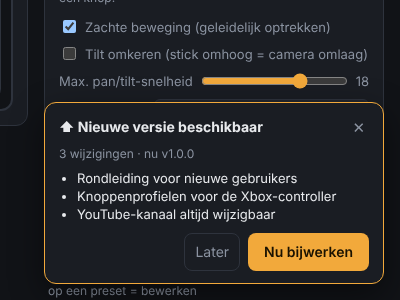
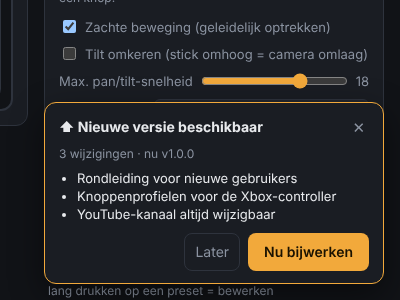
Liederenvenster: klein verplaatsbaar venster met het huidige en volgende nummer
- Knop 🎵 in de kop met het nummer dat nu in ProPresenter op het scherm staat
- Venster zoals de YouTube-viewer: Nu, Hierna en de playlist; slepen, schalen, plek per scherm onthouden
- ⇄ wisselt tussen ProPresenter en de Voordienst app, ⚙ opent de instellingen, sneltoets L
- Rondleiding (38 stappen), README, CLAUDE.md en screenshots bijgewerkt

Claude-Session: https://claude.ai/code/session_01UTh5KYCJgEpAXNVLiQf8c3

Changed region(s): [[0.12, 0.96, 0.69, 0.99]]

diff --git a/index.html b/index.html
@@ -440,6 +440,22 @@
   .ytgrip { position: absolute; right: 0; bottom: 0; width: 18px; height: 18px; cursor: nwse-resize; touch-action: none; z-index: 2;
     background: linear-gradient(135deg, transparent 50%, var(--muted) 50%, var(--muted) 58%, transparent 58%,
       transparent 70%, var(--muted) 70%, var(--muted) 78%, transparent 78%); opacity: .8; }
+  /* 🎵 Liederenvenster (net als het YouTube-venster: verplaatsbaar en schaalbaar) */
+  #btnSongBar { display: flex; gap: 6px; align-items: center; font-size: 13px; max-width: 260px; }
+  #btnSongBar .sbl { white-space: nowrap; overflow: hidden; text-overflow: ellipsis; min-width: 0; }
+  #btnSongBar.on { border-color: var(--ok); }
+  #songWin { position: fixed; z-index: 24; width: 300px; height: 320px; right: 16px; bottom: 16px; background: var(--panel);
+    border: 1px solid var(--line); border-radius: 10px; box-shadow: 0 12px 34px var(--shadow); overflow: hidden;
+    display: flex; flex-direction: column; min-width: 220px; min-height: 140px; }
+  #songWin[hidden] { display: none; }
+  #songWin .ytbadge { background: var(--muted); }
+  #songWin.on .ytbadge { background: var(--ok); color: #fff; }
+  .songnowbox { padding: 8px 12px; border-bottom: 1px solid var(--line); }
+  .songnowbox .snow { font-size: 17px; font-weight: 700; line-height: 1.25; }
+  .songnowbox .snext { font-size: 13px; color: var(--muted); margin-top: 3px; }
+  .songnowbox .snext b { color: var(--text); font-weight: 600; }
+  #songWinList { flex: 1; overflow: auto; margin: 0; border: 0; border-radius: 0; max-height: none; }
+  #songWinSrc { font-size: 11px; color: var(--muted); padding: 4px 12px 6px; border-top: 1px solid var(--line); }
   #dlgPrefs { width: min(560px, 95vw); }
   #dlgPrefs label.chk { display: flex; gap: 8px; align-items: center; font-size: 13px; margin-top: 8px; }
   #toast.good { background: var(--okbg); border-color: var(--ok); }
@@ -488,6 +504,7 @@
     <input type="checkbox" id="chkFollow" checked> Volg selectie
   </label>
   <button class="icon" id="btnLock" hidden title="Pincode / alleen kijken">🔒</button>
+  <button class="icon" id="btnSongBar" hidden title="Liederenvenster tonen/verbergen (L)"><span>🎵</span><span class="sbl" id="songBarLbl">Liederen</span></button>
   <div class="menuwrap" id="ytWrap">
     <button class="icon" id="btnYt" aria-haspopup="true" aria-expanded="false"><span class="ytdot"></span><span id="ytLbl">YouTube</span> <span class="caret">▾</span></button>
     <div class="menu" id="ytMenu" hidden role="menu"></div>
@@ -801,6 +818,21 @@
     <span style="display:flex;gap:8px"><button class="icon" id="prefsCancel">Sluiten</button>
     <button class="primary" id="prefsSave">Opslaan</button></span></div>
 </dialog>
+
+<!-- 🎵 Liederen: klein venster (verplaatsbaar, schaalbaar) -->
+<div id="songWin" hidden>
+  <div class="ythead" id="songHead">
+    <span class="ytbadge" id="songBadge">LIEDEREN</span>
+    <span class="yttitle" id="songTitle">Liederen</span>
+    <button id="songSrcBtn" title="Wisselen tussen ProPresenter en de Voordienst app" hidden>⇄</button>
+    <button id="songSet" title="Instellingen (Menu → 🎵 Liederen)">⚙</button>
+    <button id="songClose" title="Venster sluiten (L)">✕</button>
+  </div>
+  <div class="songnowbox"><div class="snow" id="songNow"></div><div class="snext" id="songNext"></div></div>
+  <ol class="songlist" id="songWinList"></ol>
+  <div id="songWinSrc"></div>
+  <div class="ytgrip" id="songGrip" title="Sleep om de grootte te wijzigen"></div>
+</div>
 
 <!-- YouTube: klein venster (verplaatsbaar, schaalbaar) -->
 <div id="ytWin" hidden>
@@ -1332,6 +1364,7 @@ const KEY_ACTIONS = {
   focus_far: ["Focus ver", "KeyW", "Zoom en focus", true], focus_near: ["Focus dichtbij", "KeyS", "Zoom en focus", true],
   stop: ["Stop", "Space", "Overig"], home: ["Home", "KeyH", "Overig"], track: ["Volgen (pan) aan/uit", "KeyT", "Overig"],
   wall: ["Volledig scherm", "KeyF", "Overig"], youtube: ["YouTube-venster tonen/verbergen", "KeyY", "Overig"],
+  songs: ["Liederenvenster tonen/verbergen", "KeyL", "Overig"],
   ...Object.fromEntries([1, 2, 3, 4, 5, 6, 7, 8, 9].map(n => ["preset_" + n, ["Preset " + n, "Digit" + n, "Presets op de gekozen camera"]])),
 };
 const keyOf = (a) => { const v = (cfg.keymap || {})[a]; return v === "none" ? "" : (v || KEY_ACTIONS[a][1]); };
@@ -1423,6 +1456,7 @@ document.addEventListener("keydown", (e) => {
   else if (a === "track") { if (ctrlCam) toggleTrack(ctrlCam); }
   else if (a === "wall") setWall(!document.body.classList.contains("wall"));
   else if (a === "youtube") ytToggle();
+  else if (a === "songs") songWinToggle();
   else if (a === "stop") { cmd("stop"); cmd("zoom", { dir: "stop" }); }
   else if (a.startsWith("preset_")) { if (ctrlCam) presetClick(ctrlCam, +a.slice(7)); }
 });
@@ -1526,7 +1560,7 @@ function renderKeyHints() {
   const presets = p1 === "Digit1" && p9 === "Digit9" ? "<kbd>1</kbd>–<kbd>9</kbd>" : `${k("preset_1")}…${k("preset_9")}`;
   $("#keyHints").innerHTML = `${presets} preset · ${cfg.cameras.slice(0, 3).map((c, i) => `<kbd>${esc(keyLabel(camHotkey(c, i)))}</kbd>`).join(" ")} camera ·
     ${k("left")}${k("up")}${k("right")}${k("down")} bewegen · ${k("zoom_in")}/${k("zoom_out")} zoom · ${k("focus_far")}/${k("focus_near")} focus ·
-    ${k("home")} home · ${k("track")} volgen · ${k("wall")} volledig scherm · ${k("youtube")} YouTube · ${k("stop")} stop ·
+    ${k("home")} home · ${k("track")} volgen · ${k("wall")} volledig scherm · ${k("youtube")} YouTube · ${k("songs")} liederen · ${k("stop")} stop ·
     <a href="#" id="keyHintsEdit">aanpassen</a> · rechtsklik of lang drukken op een preset = bewerken`;
   $("#keyHintsEdit").onclick = (e) => { e.preventDefault(); $("#btnKeys").click(); };
   const wk = $("#btnWall kbd"); if (wk) wk.textContent = keyLabel(keyOf("wall"));
@@ -3028,7 +3062,7 @@ fetch("/api/update").then(r => r.ok ? r.json() : null).then(st => st && updUpdat
    Server (liederen.py) leest de API van ProPresenter en de Voordienst app (optioneel met bearer token) en zet elk nummer in het activiteitenlog.
    Instellingen in cfg.liederen (per workspace), alleen te wijzigen via /api/liederen/config. */
 let songs = null, songsCfg = null;
-function songsUpdate(ev) { songs = ev; if ($("#dlgSongs").open) songsRender(); }
+function songsUpdate(ev) { songs = ev; if ($("#dlgSongs").open) songsRender(); songWinRender(); }
 async function songsLoad() {
   const j = await (await fetch("/api/liederen")).json();
   songsCfg = j.config; delete j.config; songs = j;
@@ -3089,6 +3123,110 @@ $("#songsLog").onclick = async () => {
   $("#dlgSongs").close(); await $("#btnLog").onclick(); $("#logKind").value = "lied"; logRender();
 };
 
+/* ---- 🎵 Liederenvenster: net als het YouTube-venster (klein, verplaatsbaar, schaalbaar), per apparaat ----
+   Toont wat nu op het scherm staat en wat hierna komt, met de playlist uit ProPresenter of de lijst uit de Voordienst app.
+   localStorage: songOpen ("1"), songGeom {x, y, w, h}, songSrc ("pp" | "vd"). Knop #btnSongBar in de kop, toets L. */
+const songWin = $("#songWin");
+function songLists() {
+  const ps = songs?.pp || {}, ds = songs?.voordienst || {};
+  const out = {};
+  if (ps.enabled && ps.connected) {
+    let n = 0;
+    out.pp = { label: "ProPresenter" + (ps.playlist?.name ? " · " + ps.playlist.name : ""),
+      items: (ps.items || []).map(i => i.header ? { name: i.name, header: true } : { name: i.name, n: ++n }),
+      cur: ps.pos, now: ps.current?.name || "" };
+  }
+  if (ds.enabled && ds.ok) out.vd = { label: "Voordienst app" + (ds.title ? " · " + ds.title : ""),
+    items: ds.items.map((t, i) => ({ name: t, n: i + 1 })), cur: ds.playing ?? ds.current, now: "" };
+  return out;
+}
+function songWinRender() {
+  const L = songLists(), any = !!(songs?.pp?.enabled || songs?.voordienst?.enabled);
+  const ppNow = L.pp?.now || "";
+  const btn = $("#btnSongBar");
+  btn.hidden = !any;
+  btn.classList.toggle("on", !!ppNow);
+  $("#songBarLbl").textContent = ppNow || "Liederen";
+  if (!any && !songWin.hidden) songWin.hidden = true;
+  if (songWin.hidden) return;
+  const keys = Object.keys(L);
+  let src = store.get("songSrc");
+  if (!keys.includes(src)) src = keys[0];
+  $("#songSrcBtn").hidden = keys.length < 2;
+  const cur = src ? L[src] : null;
+  const songsOnly = cur ? cur.items.filter(i => !i.header) : [];
+  const i = cur?.cur;
+  const nowName = ppNow || (i != null && songsOnly[i] ? songsOnly[i].name : "");
+  const next = i != null ? songsOnly[i + 1] : null;
+  songWin.classList.toggle("on", !!nowName);
+  $("#songBadge").textContent = nowName ? "NU" : "LIEDEREN";
+  $("#songTitle").textContent = cur ? cur.label : "Liederen";
+  $("#songNow").innerHTML = nowName ? esc(nowName) : `<span class="muted" style="font-weight:400;font-size:14px">${keys.length ? "Niets op het scherm" : "Nog geen verbinding met ProPresenter of de Voordienst app"}</span>`;
+  $("#songNext").innerHTML = next ? `Hierna: <b>${esc(next.name)}</b>` : "";
+  $("#songWinList").innerHTML = cur ? cur.items.map(it => it.header ? `<li class="hdr">${esc(it.name)}</li>`
+    : `<li class="${it.n - 1 === i ? "now" : ""}"><span class="sn">${it.n}</span>${esc(it.name)}</li>`).join("") : "";
+  $("#songWinSrc").textContent = keys.length ? (cur.label.startsWith("ProPresenter") && songs.pp?.checked ? "bijgewerkt " + songs.pp.checked
+    : songs.voordienst?.checked ? "bijgewerkt " + songs.voordienst.checked : "") : "Instellen via ⚙";
+  const nowEl = $("#songWinList li.now");
+  if (nowEl && nowEl.dataset.k !== String(i)) { nowEl.dataset.k = String(i); nowEl.scrollIntoView({ block: "center" }); }
+}
+function songGeom() { try { return JSON.parse(store.get("songGeom") || "{}"); } catch { return {}; } }
+function songPlace() {
+  const g = songGeom();
+  if (g.w) songWin.style.width = Math.min(g.w, innerWidth - 8) + "px";
+  if (g.h) songWin.style.height = Math.min(g.h, innerHeight - 8) + "px";
+  if (g.x == null) { songWin.style.left = songWin.style.top = ""; songWin.style.right = "16px"; songWin.style.bottom = "16px"; return; }
+  const r = songWin.getBoundingClientRect();
+  songWin.style.right = songWin.style.bottom = "";
+  songWin.style.left = Math.max(0, Math.min(g.x, innerWidth - r.width)) + "px";
+  songWin.style.top = Math.max(0, Math.min(g.y, innerHeight - r.height)) + "px";
+}
+function songWinShow(on) {
+  songWin.hidden = !on;
+  try { on ? store.set("songOpen", "1") : store.set("songOpen", "0"); } catch { /* geen opslag */ }
+  if (on) { songPlace(); songWinRender(); const n = $("#songWinList li.now"); if (n) n.scrollIntoView({ block: "center" }); }
+}
+function songWinToggle() {
+  if (!(songs?.pp?.enabled || songs?.voordienst?.enabled)) { $("#btnSongs").click(); return; }   // nog niets ingesteld
+  songWinShow(songWin.hidden);
+}
+function songDrag(el, onMove) {
+  el.addEventListener("pointerdown", (e) => {
+    if (e.button !== 0 || e.target.closest("button")) return;
+    e.preventDefault();
+    const r = songWin.getBoundingClientRect(), sx = e.clientX, sy = e.clientY;
+    el.setPointerCapture(e.pointerId);
+    songWin.style.right = songWin.style.bottom = ""; songWin.style.left = r.left + "px"; songWin.style.top = r.top + "px";
+    const move = (m) => onMove(r, m.clientX - sx, m.clientY - sy);
+    const up = () => {
+      el.removeEventListener("pointermove", move);
+      const b = songWin.getBoundingClientRect();
+      store.set("songGeom", JSON.stringify({ x: Math.round(b.left), y: Math.round(b.top), w: Math.round(b.width), h: Math.round(b.height) }));
+    };
+    el.addEventListener("pointermove", move);
+    el.addEventListener("pointerup", up, { once: true });
+    el.addEventListener("pointercancel", up, { once: true });
+  });
+}
+songDrag($("#songHead"), (r, dx, dy) => {
+  songWin.style.left = Math.max(0, Math.min(r.left + dx, innerWidth - r.width)) + "px";
+  songWin.style.top = Math.max(0, Math.min(r.top + dy, innerHeight - r.height)) + "px";
+});
+songDrag($("#songGrip"), (r, dx, dy) => {
+  songWin.style.width = Math.max(220, Math.min(r.width + dx, innerWidth - r.left)) + "px";
+  songWin.style.height = Math.max(140, Math.min(r.height + dy, innerHeight - r.top)) + "px";
+});
+addEventListener("resize", () => { if (!songWin.hidden) songPlace(); });
+$("#btnSongBar").onclick = () => songWinToggle();
+$("#songClose").onclick = () => songWinShow(false);
+$("#songSet").onclick = () => $("#btnSongs").click();
+$("#songSrcBtn").onclick = () => {
+  const keys = Object.keys(songLists()), cur = keys.includes(store.get("songSrc")) ? store.get("songSrc") : keys[0];
+  store.set("songSrc", keys[(keys.indexOf(cur) + 1) % keys.length]); songWinRender();
+};
+fetch("/api/liederen").then(r => r.json()).then(j => { delete j.config; if (!songs) songs = j; songWinRender();
+  if (store.get("songOpen") === "1" && (songs.pp?.enabled || songs.voordienst?.enabled)) songWinShow(true); }).catch(() => {});
+
 /* ---- 🎓 Rondleiding ----
    🧑 Elke functie hoort hier een stap te hebben. Voeg je iets toe of haal je iets weg: werk TOUR_STEPS bij (zie CLAUDE.md §2a). */
 const TOUR_STEPS = [
@@ -3129,6 +3267,7 @@ const TOUR_STEPS = [
   { target: ["#ytWrap"], title: "📺 YouTube-livestream", text: () => `<p>De app kijkt elke minuut of het ingestelde kanaal live is. De knop wordt dan rood (<b>LIVE</b>) en de stream verschijnt in een klein venster.</p>
       <p>In dit menu: venster tonen/verbergen (<kbd>Y</kbd>), grootte, automatisch plaatsen, geluid, automatisch openen, nu controleren en het <b>kanaal instellen</b> (kan altijd, ook tijdens een stream).</p>
       <p>Het venster kun je slepen aan de titelbalk en groter maken met de hoek rechtsonder. Starten en stoppen van de stream gebeurt buiten deze app.</p>` },
+  { target: ["#btnSongBar", "#btnPad"], title: "🎵 Liederenvenster", text: () => `<p>Is ProPresenter of de Voordienst app gekoppeld, dan staat hier het nummer dat <b>nu op het scherm</b> staat. Klik erop (of toets <kbd>${esc(keyLabel(keyOf("songs")))}</kbd>) voor een klein venster met <b>Nu</b>, <b>Hierna</b> en de hele playlist.</p><p>Net als het YouTube-venster kun je het verslepen aan de titelbalk en groter maken met het hoekje rechtsonder; elk scherm onthoudt zijn eigen plek. Met ⇄ wissel je tussen ProPresenter en de Voordienst app. Koppelen doe je via <b>Menu → 🎵 Liederen</b>.</p>` },
   { target: ["#wsWrap"], title: "📍 Workspaces", text: () => `<p>Een workspace is een aparte set camera's, presets, foto's, sneltoetsen, knoppenprofielen en YouTube-kanaal, bijvoorbeeld per locatie.</p>
       <p>Hier wissel je van workspace (geldt voor alle schermen), maak je een nieuwe (leeg of als kopie) en beheer je ze.</p>` },
   { target: ["#btnPad"], title: "Menu", text: () => `<p>Achter deze knop zitten de overige functies. We lopen ze kort langs.</p>` },

diff --git a/docs/tools/screenshots.py b/docs/tools/screenshots.py
@@ -50,6 +50,7 @@ with sync_playwright() as p:
     pg.screenshot(path=f"{OUT}/ongedaan-maken.png", clip={"x": 420, "y": 760, "width": 600, "height": 140}); pg.evaluate("$('#undoNote').hidden = true")
     pg.click("#btnPad"); pg.click("#btnMidi"); pg.wait_for_timeout(1500); pg.screenshot(path=f"{OUT}/videomixer.png"); pg.click("#midiClose")
     urllib.request.urlopen("http://127.0.0.1:50001/test/trigger?i=4").read(); pg.wait_for_timeout(2500)
+    pg.keyboard.press("l"); pg.wait_for_timeout(600); pg.screenshot(path=f"{OUT}/liederenvenster.png"); pg.keyboard.press("l"); pg.wait_for_timeout(200)
     pg.click("#btnPad"); pg.click("#btnSongs"); pg.wait_for_timeout(800); pg.screenshot(path=f"{OUT}/liederen.png")
     pg.locator("#dlgSongs").evaluate("d => d.scrollTop = 99999"); pg.wait_for_timeout(200); pg.screenshot(path=f"{OUT}/voordienst-app.png"); pg.click("#songsClose")
     pg.click("#btnPad"); pg.click("#btnAccess"); pg.wait_for_timeout(400); pg.screenshot(path=f"{OUT}/toegang.png"); pg.click("#acClose")

diff --git a/CLAUDE.md b/CLAUDE.md
@@ -57,7 +57,7 @@ Legenda: ✅ geverifieerd (getest of in officiële docs gevonden) · ⚠ aann
 - 🧑 **Menu onder die knop** (`#mainMenu`): Sneltoetsen, Volledig scherm, Back-up, Camera's, 🎛 Videomixer (MIDI) (`btnMidi`), 🎵 Liederen (`btnSongs`), Presetaantal testen, 🚧 Oefenstand (`btnPractice`, bewust niet 🎯: dat is volgen), 📋 Activiteitenlog (`btnLog`), 🔒 Toegang (`btnAccess`), 📱 Tabletweergave (`btnTablet`), Licht/donker, 🎓 Rondleiding, 🔄 Op updates controleren, Afsluiten. De knoppen houden hun oude id's (`btnKeys`, `btnWall`, `btnBackup`, `btnSettings`, `btnCap`); klik buiten of Esc sluit het menu. 🧑 Het item *Controller-instellingen* (`btnPadSet`, sprong naar de Xbox-kaart) is op verzoek weggehaald; de instellingen staan in de zijbalk.
 - 🧑 **Volledig scherm** (`body.wall`) is alleen om te bedienen: **📥 Laden van camera** en **＋ Preset opslaan** zijn daar verborgen, en een actieve opslaan-modus wordt bij het openen uitgezet (zodat een tik geen preset overschrijft).
 - 🧑 **Knoppenindeling heeft één ingang**: de knop `btnMap2` in de Xbox-kaart in de zijbalk. Een tweede menu-item (`btnMap`) gaf dubbele knoppen en is op verzoek weggehaald; niet opnieuw toevoegen.
-- 🧑 **Alle sneltoetsen instelbaar** in **⌨ Sneltoetsen** (`#dlgKeys`, menu-item `btnKeys`), gedeeld via `cameras.json`: camera kiezen per camera (`cfg.cameras[i].hotkey`, standaard `Shift+Digit<n>`, n ≤ 9) en de bediening via **`cfg.keymap = {actie: combinatie}`** (alleen afwijkingen; `"none"` = uit). Acties en standaard in `KEY_ACTIONS`: `up/down/left/right` (pijltjes), `zoom_in/zoom_out` (Q/A), `focus_far/focus_near` (W/S), `stop` (Spatie), `home` (H), `track` (T), `wall` (F), `youtube` (Y), `preset_1..9` (1–9). Combinatie = `KeyboardEvent.code` met `Ctrl+`/`Alt+`/`Shift+` (`comboOf`). Backspace = standaard, Delete = uit; dubbele toetsen worden rood gemarkeerd maar niet geblokkeerd. **Esc is vast**; Cmd-combinaties (`metaKey`) gaan altijd naar de browser. Vasthouden (bewegen/zoom/focus) loopt via `holding` (code → actie), zodat loslaten ook werkt als Shift al los is; Num 2/4/6/8 zonder NumLock tellen als pijltje (`combosOf`). De uitleg onder de zijbalk (`#keyHints`), het menu (Volledig scherm) en het YouTube-menu tonen de ingestelde toetsen (`renderKeyHints`). In *Alle camera's* kiest de camera-toets alleen de bediende camera (`selectCam`, origin `key`); in de enkele weergave wisselt hij van tabblad. ✅ Getest met Playwright (toets wijzigen, uitzetten, dubbel, opslaan, bediening met nieuwe toetsen).
+- 🧑 **Alle sneltoetsen instelbaar** in **⌨ Sneltoetsen** (`#dlgKeys`, menu-item `btnKeys`), gedeeld via `cameras.json`: camera kiezen per camera (`cfg.cameras[i].hotkey`, standaard `Shift+Digit<n>`, n ≤ 9) en de bediening via **`cfg.keymap = {actie: combinatie}`** (alleen afwijkingen; `"none"` = uit). Acties en standaard in `KEY_ACTIONS`: `up/down/left/right` (pijltjes), `zoom_in/zoom_out` (Q/A), `focus_far/focus_near` (W/S), `stop` (Spatie), `home` (H), `track` (T), `wall` (F), `youtube` (Y), `songs` (L), `preset_1..9` (1–9). Combinatie = `KeyboardEvent.code` met `Ctrl+`/`Alt+`/`Shift+` (`comboOf`). Backspace = standaard, Delete = uit; dubbele toetsen worden rood gemarkeerd maar niet geblokkeerd. **Esc is vast**; Cmd-combinaties (`metaKey`) gaan altijd naar de browser. Vasthouden (bewegen/zoom/focus) loopt via `holding` (code → actie), zodat loslaten ook werkt als Shift al los is; Num 2/4/6/8 zonder NumLock tellen als pijltje (`combosOf`). De uitleg onder de zijbalk (`#keyHints`), het menu (Volledig scherm) en het YouTube-menu tonen de ingestelde toetsen (`renderKeyHints`). In *Alle camera's* kiest de camera-toets alleen de bediende camera (`selectCam`, origin `key`); in de enkele weergave wisselt hij van tabblad. ✅ Getest met Playwright (toets wijzigen, uitzetten, dubbel, opslaan, bediening met nieuwe toetsen).
 - 🧑 **Camerabediening inklapbaar** (klik op de titel; `localStorage.ctrlFolded`).
 - 🧑 **⛶ Volledig scherm** / toets F: `body.wall` verbergt kop en zijbalk, zet weergave op Alle camera's en vraagt browser-fullscreen. Esc / fullscreen verlaten → terug naar vorige weergave.
 - 🧑 **Geen scènes** (meerdere camera's tegelijk naar een preset). Op verzoek verwijderd: camera's mogen niet tegelijk bewegen, omdat de regie eerst via de videomixer naar een ander shot schakelt en dan pas de camera die niet live is verplaatst. Niet opnieuw toevoegen zonder expliciete vraag. Een oude `scenes`-sectie in `cameras.json` wordt bij opslaan weggegooid, oude `scene*`-knoppen in `pad_map` worden genegeerd.
@@ -113,7 +113,7 @@ Legenda: ✅ geverifieerd (getest of in officiële docs gevonden) · ⚠ aann
 
 ## 2b. Rondleiding en screenshots — ALTIJD bijwerken
 
-- 🧑 **Rondleiding in de app** (`TOUR_STEPS` in `index.html`, overlay `#tour`, nu 37 stappen incl. workspaces, knoppenprofielen, videomixer, liederen, zoeken/volgorde, camerastatus, foutbalk, oefenstand, activiteitenlog, toegang, tabletweergave en updates): start vanzelf bij de eerste keer per apparaat (`localStorage.tourDone`), daarna alleen via **Menu → 🎓 Rondleiding** (`#btnTour`). `?notour` in de URL slaat de automatische start over (voor screenshots/tests). Tijdens de rondleiding telt `anyDialog()` als waar, dus toetsen en de Xbox-controller bedienen geen camera's; klikken worden tegengehouden. Stap = `{target: [selectors…], menu: "main"?, parent?, title, text()}`; eerste zichtbare selector wordt uitgelicht, anders staat de kaart in het midden. ✅ Getest (Playwright, 1440×900, 900×1000, 390×800): alle stappen, geen `/api/cmd` tijdens de tour, Esc/menu/herladen.
+- 🧑 **Rondleiding in de app** (`TOUR_STEPS` in `index.html`, overlay `#tour`, nu 38 stappen incl. workspaces, knoppenprofielen, videomixer, liederen, liederenvenster, zoeken/volgorde, camerastatus, foutbalk, oefenstand, activiteitenlog, toegang, tabletweergave en updates): start vanzelf bij de eerste keer per apparaat (`localStorage.tourDone`), daarna alleen via **Menu → 🎓 Rondleiding** (`#btnTour`). `?notour` in de URL slaat de automatische start over (voor screenshots/tests). Tijdens de rondleiding telt `anyDialog()` als waar, dus toetsen en de Xbox-controller bedienen geen camera's; klikken worden tegengehouden. Stap = `{target: [selectors…], menu: "main"?, parent?, title, text()}`; eerste zichtbare selector wordt uitgelicht, anders staat de kaart in het midden. ✅ Getest (Playwright, 1440×900, 900×1000, 390×800): alle stappen, geen `/api/cmd` tijdens de tour, Esc/menu/herladen.
 - 🧑 **Regel voor elke wijziging:** voeg je een functie toe, verander je hoe iets werkt of haal je iets weg, werk dan **in dezelfde commit** bij:
   1. de **rondleiding** (`TOUR_STEPS`): elke functie moet er een stap voor hebben, verwijderde functies eruit;
   2. de **screenshots** in `docs/screenshots/` (opnieuw maken met `docs/tools/`, zie `docs/tools/README.md`; nieuwe dialogen/schermen ook toevoegen aan `docs/tools/screenshots.py`);
@@ -268,7 +268,8 @@ Legenda: ✅ geverifieerd (getest of in officiële docs gevonden) · ⚠ aann
 - 🧑 **Voordienst app met bearer token** (op verzoek; een eerst gebouwde OAuth 2.0-flow met PKCE is op verzoek weer vervangen door een vast token, niet terugzetten zonder vraag): `read_source(url, token)` stuurt `Authorization: Bearer <token>`; met token alleen http(s). `cfg.liederen.voordienst.token` (een geplakte `Bearer `-prefix wordt weggehaald). **Token is een geheim**: `GET /api/liederen` en `GET /api/config` geven alleen `token_set` (`public_cfg`), `POST /api/liederen/config` zet hem alleen bij een nieuwe waarde (`token`) of `token_clear: true`; een back-up zonder wachtwoorden laat hem weg en terugzetten houdt dan het huidige token. 401 → *HTTP 401 (token ontbreekt, is ongeldig of verlopen)*. ⚠ De echte API van de Voordienst app (adres, formaat) is **niet bekend**; alleen getest met `docs/tools/nep_voordienst.py`.
 - **Formaat** (`parse_voordienst`): JSON-lijst of object met `liederen|nummers|songs|items|playlist|lijst`, titel `titel|title|naam|name|dienst|datum`, optioneel `huidig|current|actief|active|nu|now` (index vanaf 1 of naam); items tekst of object (`titel|title|naam|name|lied|song|nummer|tekst`); met `type`/`soort` alleen lied/song/zang/nummer/aanbidding als die voorkomen. Tekst: één per regel, `#`-regels en nummering/opsommingstekens weg. Max. 100 items. Zonder token mag de bron ook een lokaal bestand zijn, ⚠ **alleen `.json`/`.txt`** (de server leest het; iedereen met bedienrecht kan het pad zetten). Koppeling ProPresenter ↔ Voordienst app: `match()` = gelijk na normaliseren (kleine letters, alleen letters/cijfers), of de een bevat de ander **op woordgrenzen** (min. 4 tekens; "psalm 1" ≠ "psalm 134"). Log: *Liederen geladen: <titel> (n liederen): …* bij nieuwe/andere lijst, *▶ … (k van n in de Voordienst app)* als `huidig` verandert.
 - Config `cfg.liederen = {pp: {enabled, host, port}, voordienst: {enabled, url, token}}` (per workspace, in back-ups), `norm_cfg` (host mag `http://ip:poort/` zijn). **Alleen via `POST /api/liederen/config`** (per sectie samengevoegd); `POST /api/config` behoudt altijd de bestaande `liederen`. API: `GET /api/liederen` (status + `config` zonder token), `POST /api/liederen/check` (meteen opnieuw, synchroon; niet gelogd). SSE `liederen` = `{pp: {enabled, connected, error, version, current, playlist, items, pos, checked}, voordienst: {enabled, ok, error, title, items, current, playing, checked}}`, alleen bij wijziging. Workspace wisselen → `LD.refresh()` (geen herhaalde logregels als de instellingen gelijk zijn).
-- UI: menu 🎵 Liederen (`#btnSongs`), dialoog `#dlgSongs` (`songsRender`): ProPresenter aan/uit, IP + poort, status, *Op het scherm*, playlist (`#ppList`, huidig groen); Voordienst app aan/uit, API-adres (`#dbUrl`), API-token (`#dbToken`, wachtwoordveld, placeholder *opgeslagen*, `#dbTokenClear`), status, liederen (`#dbList`, huidig = `playing` uit ProPresenter, anders `huidig`); ↻ Nu controleren, 📋 In het log bekijken (log met filter *Liederen*). In alleen-kijken zijn de velden uitgeschakeld.
+- UI: menu 🎵 Liederen (`#btnSongs`) = instellingen, dialoog `#dlgSongs` (`songsRender`): ProPresenter aan/uit, IP + poort, status, *Op het scherm*, playlist (`#ppList`, huidig groen); Voordienst app aan/uit, API-adres (`#dbUrl`), API-token (`#dbToken`, wachtwoordveld, placeholder *opgeslagen*, `#dbTokenClear`), status, liederen (`#dbList`, huidig = `playing` uit ProPresenter, anders `huidig`); ↻ Nu controleren, 📋 In het log bekijken (log met filter *Liederen*). In alleen-kijken zijn de velden uitgeschakeld.
+- 🧑 **Liederenvenster** (op verzoek, "net zoiets als de YouTube-viewer"; alleen UI): knop `#btnSongBar` in de kop (vóór YouTube, alleen zichtbaar als ProPresenter of de Voordienst app aan staat; groene rand + titel = presentatie op het scherm), toets **L** (`KEY_ACTIONS.songs`), venster `#songWin` (`songWinRender()` bij elke SSE `liederen` en bij het laden via `GET /api/liederen`): kop met badge **NU**, bron, ⇄ (`#songSrcBtn`, alleen als beide bronnen een lijst hebben; `localStorage.songSrc` = `pp`/`vd`), ⚙ (opent `#dlgSongs`), ✕; daaronder *Nu* (ProPresenter-presentatie, anders `huidig`/`playing` uit de Voordienst app) en *Hierna*, de lijst (`#songWinList`, huidig groen en in beeld gescrold) en *bijgewerkt*. Slepen aan `#songHead`, schalen met `#songGrip` (breedte én hoogte, min. 220×140). Per apparaat via `store` (dus per workspace): `songGeom {x,y,w,h}` (zonder x: rechtsonder), `songOpen`. Geen automatische plaatsing zoals YouTube (kan dus over tegels of het YouTube-venster liggen; zelf verslepen). Ook zichtbaar op volledig scherm. Nog niets ingesteld → L/knop opent `#dlgSongs`. ✅ Getest (Playwright): knoptitel live, L/knop/✕, Nu/Hierna wisselen via SSE, ⇄, slepen + schalen + herladen (plek en open blijven), volledig scherm; rondleiding 38 stappen zonder meldingen.
 - ✅ Getest (API + Playwright, nep-ProPresenter nieuw en `--oud`, nep-Voordienst app): verbinden, playlist + nummers met plek en voordienstnummer, presentatie buiten de playlist, andere playlist, leeg scherm → zelfde lied niet dubbel, verkeerde poort → fout in gewone taal en terug; geen/fout/goed token (401 → lijst), token niet zichtbaar via GET's, token ingetrokken → fout, wissen, nieuw token; back-up zonder wachtwoorden zonder token en terugzetten houdt het token; `/api/config` wist niets; `/etc/passwd` geweigerd; rondleiding 35 stappen zonder meldingen.
 
 ## 10. Werken aan deze repo

diff --git a/README.md b/README.md
@@ -259,11 +259,12 @@ Met Menu → **🎵 Liederen (ProPresenter)** ziet PTZ Control welke nummers er 
    "huidig": 2}
   ```
   `liederen` mag ook `items`, `songs` of `nummers` heten, en de items mogen objecten zijn (`{"type": "lied", "titel": "…"}`; staan er ook andere soorten in, dan tellen alleen de liederen). `huidig` (nummer vanaf 1, of de naam) is optioneel. Tekst met één lied per regel werkt ook, en zonder token mag het ook een `.json`/`.txt`-bestand op deze computer zijn.
-- Het venster toont de playlist en de liederen uit de Voordienst app met het nummer dat nu op het scherm staat. **↻ Nu controleren** leest beide meteen opnieuw; **📋 In het log bekijken** opent het log met alleen de liederen.
+- **Liederenvenster** (net als het YouTube-venster): zodra er iets gekoppeld is, staat in de kop een knop **🎵** met het nummer dat nu op het scherm staat. Klik erop, of druk op **L**, voor een klein venster met **Nu**, **Hierna** en de hele playlist (het huidige nummer groen). Verslepen aan de titelbalk, groter maken met het hoekje rechtsonder; elk scherm onthoudt zijn eigen plek en of het venster open was. Met **⇄** wissel je tussen de playlist uit ProPresenter en de lijst uit de Voordienst app, met **⚙** open je de instellingen. Werkt ook op volledig scherm.
+- Het instellingenvenster toont de playlist en de liederen uit de Voordienst app met het nummer dat nu op het scherm staat. **↻ Nu controleren** leest beide meteen opnieuw; **📋 In het log bekijken** opent het log met alleen de liederen.
 
 De instellingen gelden voor alle schermen en worden per workspace en in de back-up bewaard.
 
-<img src="docs/screenshots/liederen.png" width="720" alt="Liederen: ProPresenter"> <img src="docs/screenshots/voordienst-app.png" width="720" alt="Liederen: Voordienst app">
+<img src="docs/screenshots/liederenvenster.png" width="720" alt="Liederenvenster"> <img src="docs/screenshots/liederen.png" width="720" alt="Liederen: ProPresenter"> <img src="docs/screenshots/voordienst-app.png" width="720" alt="Liederen: Voordienst app">
 
 ## Licht of donker
 Menu → **☀ Lichte modus / 🌙 Donkere modus** wisselt direct. Elk apparaat onthoudt zijn eigen keuze.
